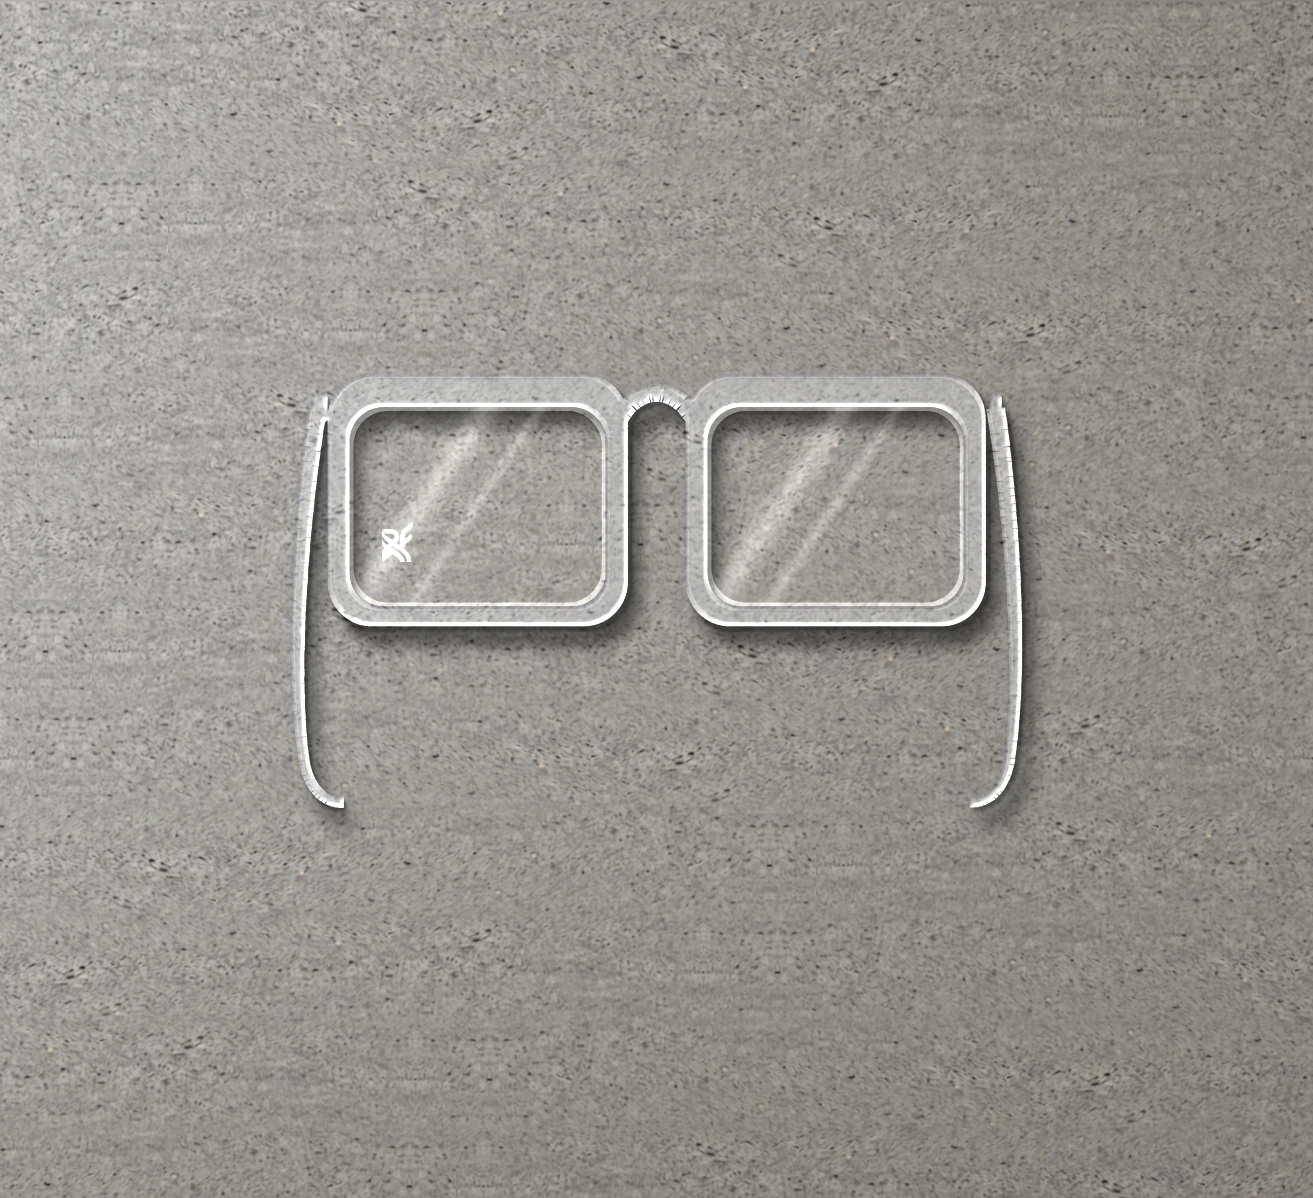
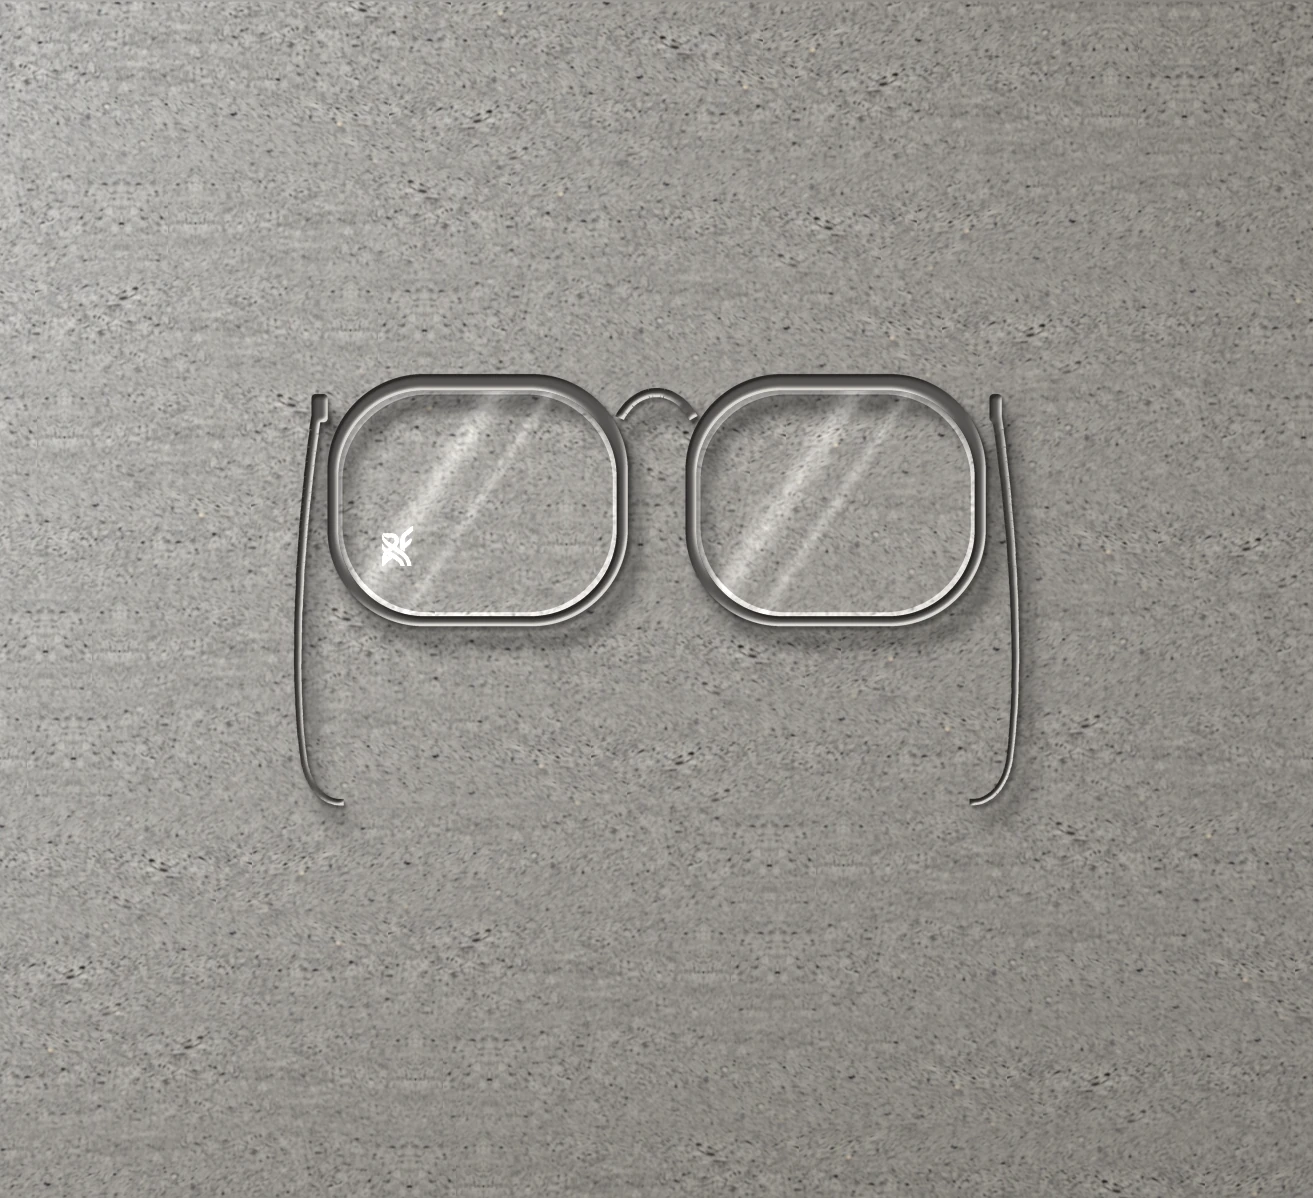
Shop: glasses with slim thin frame and temples (no thick rim)
Claude-Session: https://claude.ai/code/session_01SvR88MGxi4C38PM8FVmus1

Changed region(s): [[0.2186, 0.3088, 0.7807, 0.6795]]

diff --git a/shop/index.html b/shop/index.html
@@ -386,8 +386,8 @@
     { id: 'rf8', type: 'tshirt', name: 'Rare Form Waffle Long Sleeve (Weiß)', price: 29.99, color: '#f4f2ee', img: 'fotos/rare-form-longsleeve.webp', sizes: ['XS','S','M','XL','XXL'],
       desc: 'Langarmshirt in Weiß aus Waffelstrick, locker und kurz geschnitten. Schriftzug entlang beider Ärmel und ein kleines Rare-Form-Logo auf der Brust.' },
     // PLATZHALTER: Name/Material der Brille (Preis 29,99 € laut Auftrag); gerendertes Produktbild, kein Foto
-    { id: 'rf9', type: 'zubehoer', name: 'Rare Form Clear Frame Glasses', price: 29.99, color: '#d8dde2', img: 'fotos/rare-form-glasses.webp', allSizes: ['Einheitsgröße'], sizes: ['Einheitsgröße'],
-      desc: 'Brille mit durchsichtigem Kristallrahmen und klaren Gläsern ohne Sehstärke (Fensterglas-Look). Das Rare-Form-Logo ist ins Glas graviert.' },
+    { id: 'rf9', type: 'zubehoer', name: 'Rare Form Slim Glasses', price: 29.99, color: '#8a8a8e', img: 'fotos/rare-form-glasses.webp', allSizes: ['Einheitsgröße'], sizes: ['Einheitsgröße'],
+      desc: 'Klassische Brille mit schlankem, dünnem Rahmen in Rauchgrau, Bügeln und klaren Gläsern ohne Sehstärke (Fensterglas-Look). Das Rare-Form-Logo ist ins Glas graviert.' },
     // PLATZHALTER: Preis und Größen des Gürtels sind noch nicht bestätigt
     { id: 'rf5', type: 'zubehoer', name: 'Urban Artifacts Belt (Black)', price: 19.99, color: '#232323', img: 'fotos/urban-artifacts-belt.webp', allSizes: ['S','M','L'], sizes: ['S','M','L'],
       desc: 'Schwarzer Gürtel mit zwei Reihen Ösen, grauen Ziernähten und gunmetal-farbener Schnalle. Dazu zwei D-Ringe, ein Karabiner und ein gesticktes „Urban Artifacts“-Label.' },
@@ -429,8 +429,8 @@
     "desc": "Long-sleeve top in white waffle knit with a relaxed, cropped fit. Lettering down both sleeves and a small Rare Form logo on the chest."
   },
   "rf9": {
-    "name": "Rare Form Clear Frame Glasses",
-    "desc": "Glasses with a transparent crystal frame and clear lenses, no prescription (non-prescription look). The Rare Form logo is engraved into the glass."
+    "name": "Rare Form Slim Glasses",
+    "desc": "Classic glasses with a slim, thin smoke-grey frame, temples and clear lenses, no prescription (non-prescription look). The Rare Form logo is engraved into the glass."
   },
   "rf7": {
       "name": "Rare Form Texture Powder",

diff --git a/shop/sw.js b/shop/sw.js
@@ -1,6 +1,6 @@
 /* Service Worker für die Rare-Form-Web-App: Seite und Fotos werden gespeichert, damit der Shop auch offline startet.
    Bei einer neuen Version von Seite oder Fotos CACHE hochzählen. */
-const CACHE = 'rare-form-v12';
+const CACHE = 'rare-form-v13';
 const FILES = [
   './', './index.html', './manifest.webmanifest',
   './logo/mark.png',  './logo/wordmark.png', './icons/icon-192.png', './icons/icon-512.png', './icons/apple-touch-icon.png',
